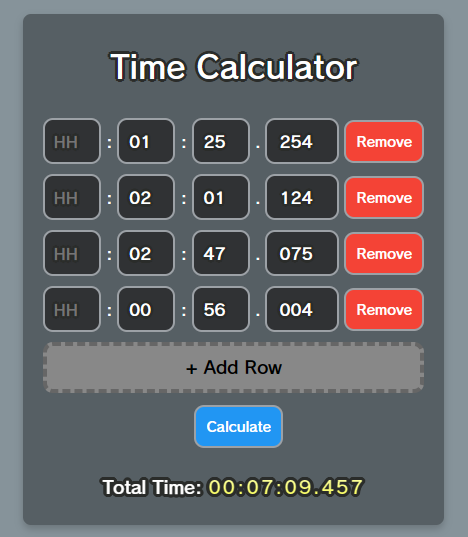
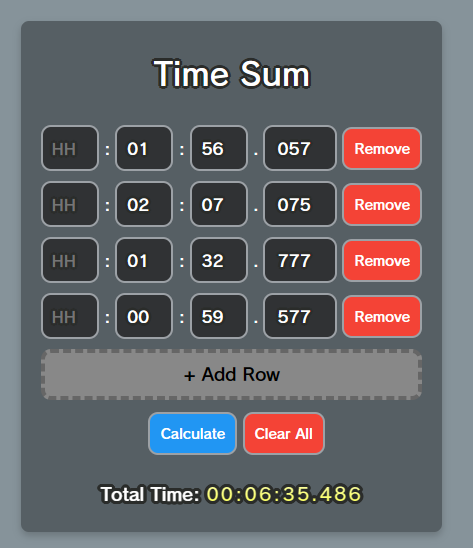
Doc

Changed region(s): [[0.0299, 0.0, 0.9573, 0.9832], [0.2094, 0.0894, 0.7778, 0.1788], [0.2094, 0.8641, 0.7778, 0.9236]]

diff --git a/js/main.js b/js/main.js
@@ -69,6 +69,12 @@ $(document).ready(function () {
     return `${String(hours).padStart(2, '0')}:${String(minutes).padStart(2, '0')}:${String(seconds).padStart(2, '0')}.${String(milliseconds).padStart(3, '0')}`;
   }
 
+  /**
+   * Saves the current state of all time rows to local storage.
+   * Iterates over each time row, collects the input values for hours,
+   * minutes, seconds, and milliseconds, and stores them as a JSON string
+   * under the specified storage key.
+   */
   function saveState() {
     const rows = [];
     $('.time-row').each(function () {
@@ -82,6 +88,12 @@ $(document).ready(function () {
     localStorage.setItem(STORAGE_KEY, JSON.stringify(rows));
   }
 
+  /**
+   * Iterates over each row object from local stoage and appends a corresponding HTML
+   * structure to the '#time-rows' container. If no rows are present, initializes the
+   * container with a default number of empty time rows. Triggers the 'calculate'
+   * button click event if rows are present.
+   */
   function restoreState() {
     const rows = JSON.parse(localStorage.getItem(STORAGE_KEY)) || [];
 
@@ -108,6 +120,12 @@ $(document).ready(function () {
     }
   }
 
+  /**
+   * Clears all time rows and resets the total time display.
+   * Removes the stored time rows from local storage, empties the
+   * current time rows container, appends a default number of empty
+   * time rows, and resets the total time display to "00:00:00.000".
+   */
   function clearAll() {
     localStorage.removeItem(STORAGE_KEY);
     timerows.empty();
